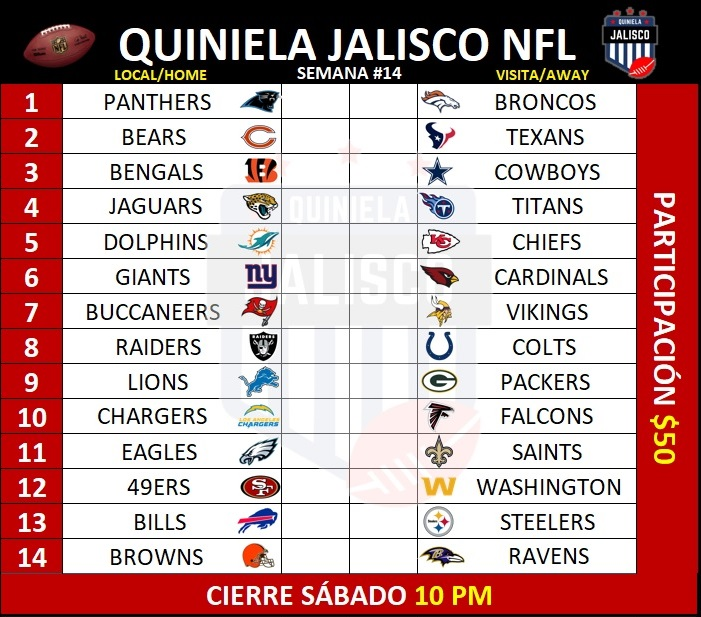
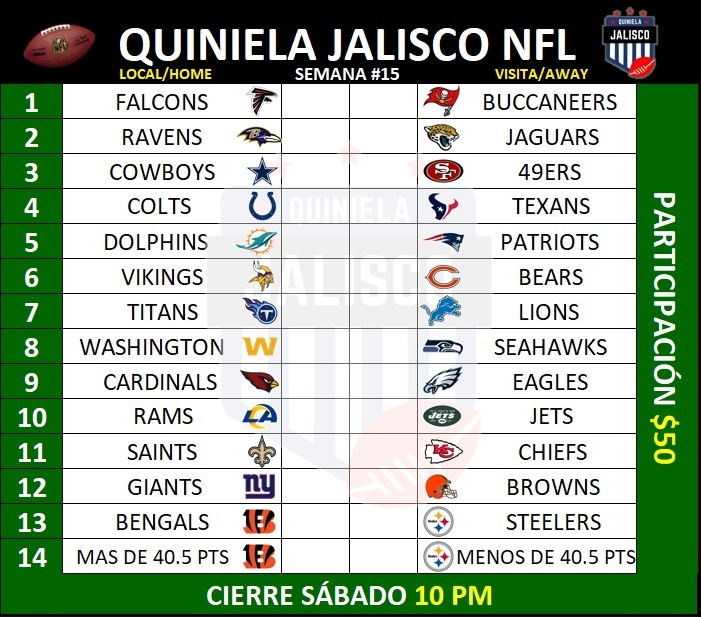
Jornada 15

diff --git a/styles.css b/styles.css
@@ -7,7 +7,7 @@
 
 .quiniela{
     margin: auto;
-    background-image: url("https://scontent.fgdl9-1.fna.fbcdn.net/v/t1.15752-9/129777590_412574760112374_7555946865399684964_n.png?_nc_cat=110&ccb=2&_nc_sid=ae9488&_nc_eui2=AeFXrvpse1vVqUD1QK-7HkS3mZAxhHhN7PWZkDGEeE3s9Q26fvmT98IOQNCn5npMH1V0mappud0G0QMMyqne2nkl&_nc_ohc=MqnOS8GJIdUAX9vocw-&_nc_ht=scontent.fgdl9-1.fna&oh=d3239805fbd5c349862414690d5e7b96&oe=5FF6A600");
+    background-image: url("https://scontent.fgdl9-1.fna.fbcdn.net/v/t1.15752-9/130770178_218768829716489_2538324715105720505_n.png?_nc_cat=109&ccb=2&_nc_sid=ae9488&_nc_eui2=AeG_1X9DAfsbfClAHHgQrR7GxSX2PeItFcnFJfY94i0VyV6oMZVO8dfln1TE_SOxsXH8pho5dbIDsGpGKq3HU8E1&_nc_ohc=RUtUZEhpsPwAX_-J0Gk&_nc_ht=scontent.fgdl9-1.fna&oh=a81da8599e7970ab989b4586734413d2&oe=600098B6");
     background-size: 100%;
     background-repeat: no-repeat;
     max-width: 400px;
